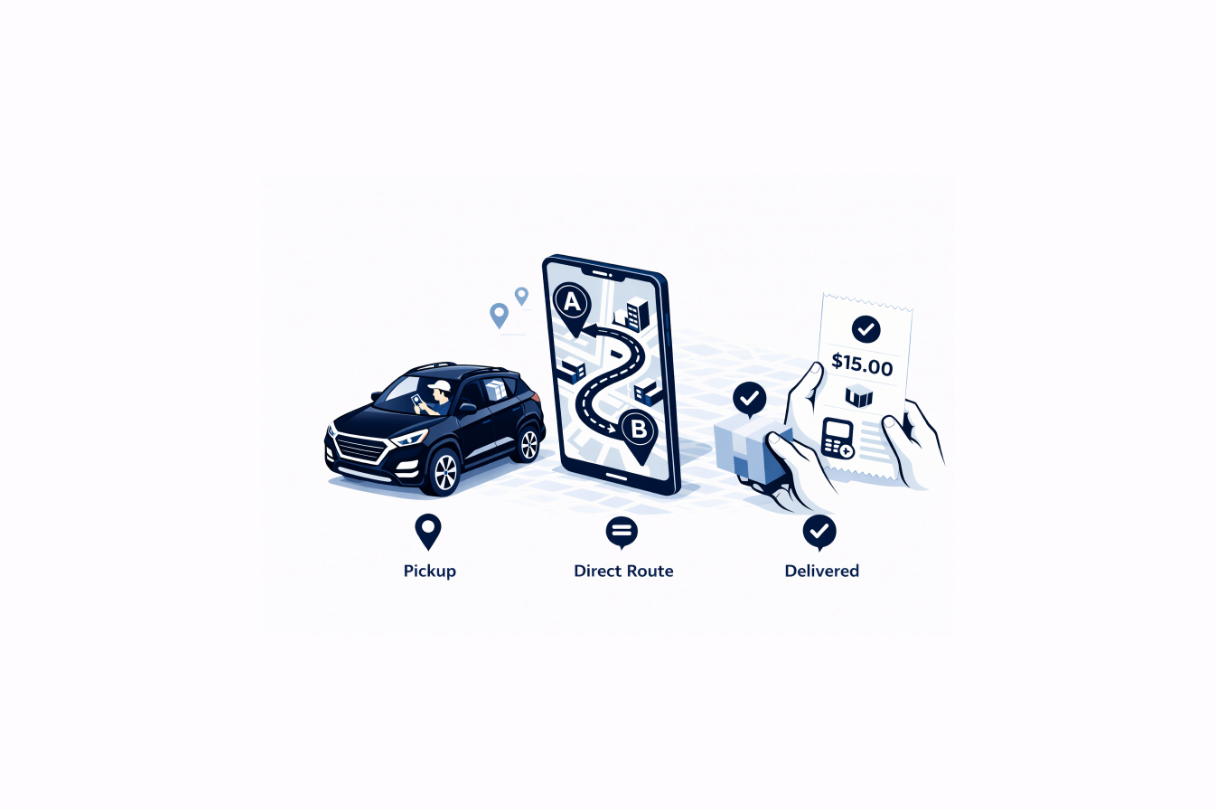
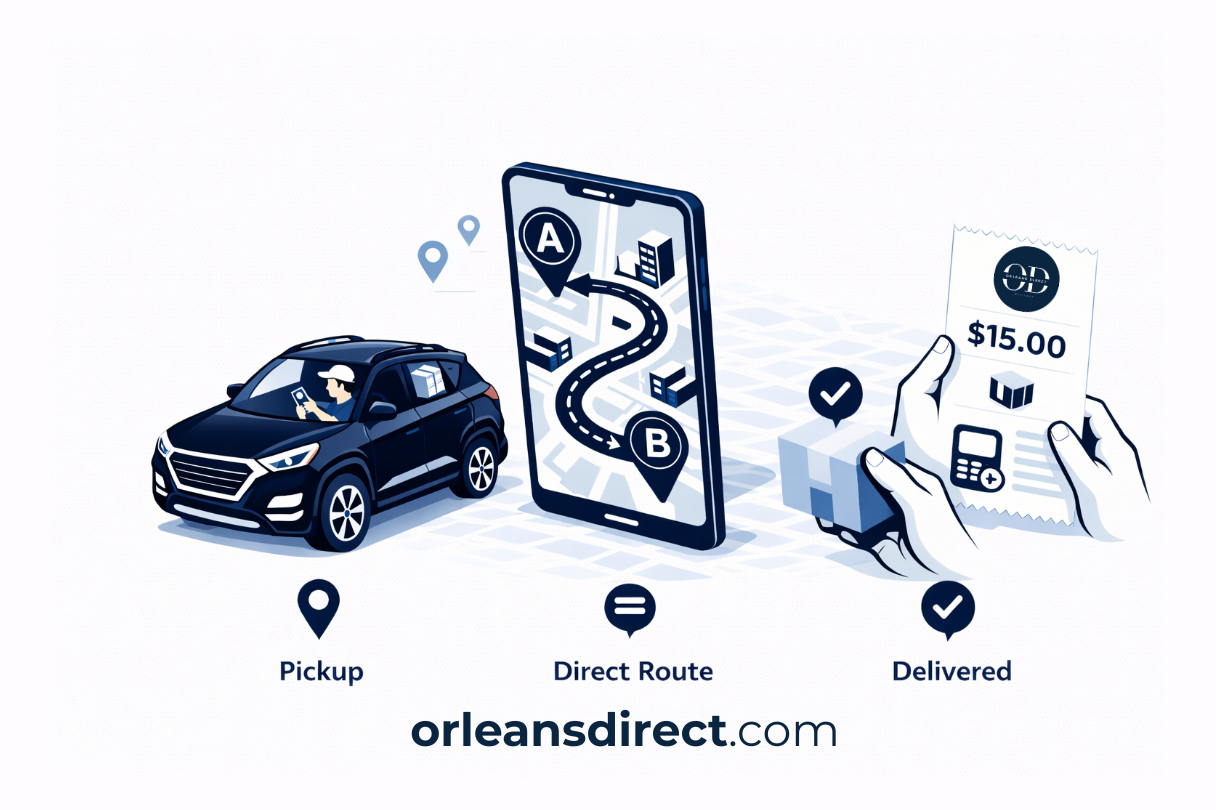
replace app card branded operations img

Changed region(s): [[0.125, 0.1852, 0.9375, 0.9259]]

diff --git a/assets/css/styles.css b/assets/css/styles.css
@@ -1105,7 +1105,7 @@ body.app-ready .app-splash {
   height: auto;
   border-radius: 1.15rem;
   border: 1px solid rgba(255, 255, 255, 0.42);
-  transform: translateX(-4%) scale(1.5);
+  transform: translateX(-4%) scale(1.08);
   transform-origin: center;
 }
 
